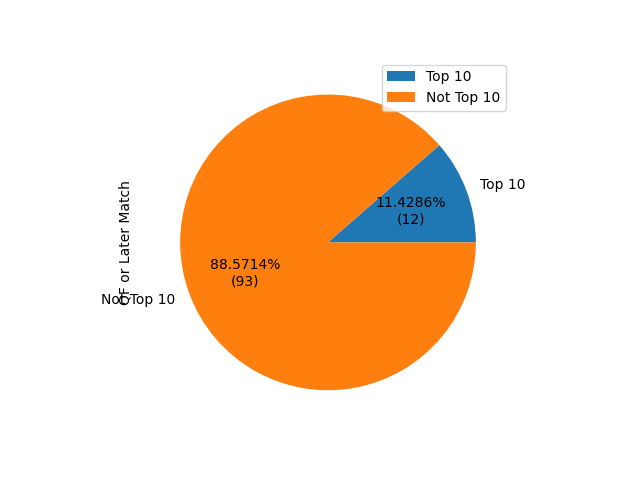
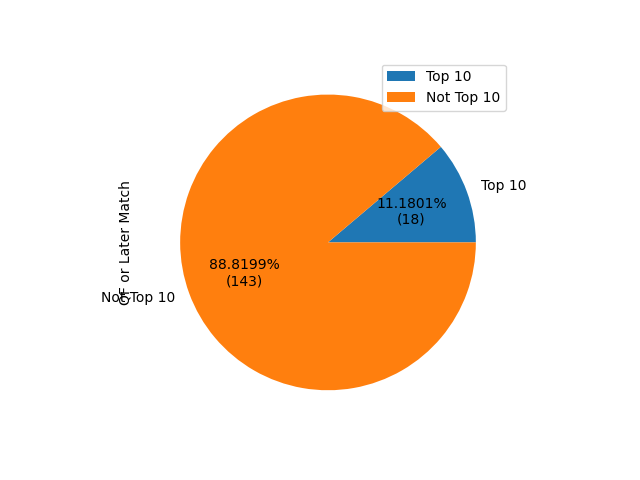
fixing error

diff --git a/atp_wta_consistency.py b/atp_wta_consistency.py
@@ -49,8 +49,7 @@ WTA_SEASON_FILES = [
 
 # WTA BIG TOURNAMENT LOOKUP
 WTA_1000_GS_LOOKUP = [
-    "Dubai"
-    "Doha"
+    "Doha",
     "Australian Open",
     "Indian Wells", 
     "Miami", 
@@ -60,7 +59,7 @@ WTA_1000_GS_LOOKUP = [
     "Roland Garros",
     "Wimbledon",
     "Montreal",
-    "Toronto"
+    "Toronto",
     "Cincinnati",
     "Us Open",
     "Wuhan",
@@ -235,7 +234,7 @@ def main():
         WTA_RESULTS_FILE, WTA_SEASON_FILES, TourEnum.WTA
     )
     logging.info(f"Total number of top 10 WTA Matches {len(wta_top_10_matches)}")
-
+    print(wta_qf_later.to_string())
     top_10_match_breakdown(wta_top_10_matches, wta_qf_later, TourEnum.WTA)
 
 

diff --git a/README.md b/README.md
@@ -11,7 +11,7 @@
 - [ ] Make an input json file for the analysis, or some better way of passing in inputs
 - [ ] Clean up the plot generation functions a bit (some reuse code)
 - [ ] Is there a better way than QF,SF,F to determine how far "top 10 players are making it"
-
+- [ ] Count top 10s in the tournaments and try to filter there
 # Thanks
 
 Big thanks to https://www.tennisabstract.com/ for there free databases found here:
